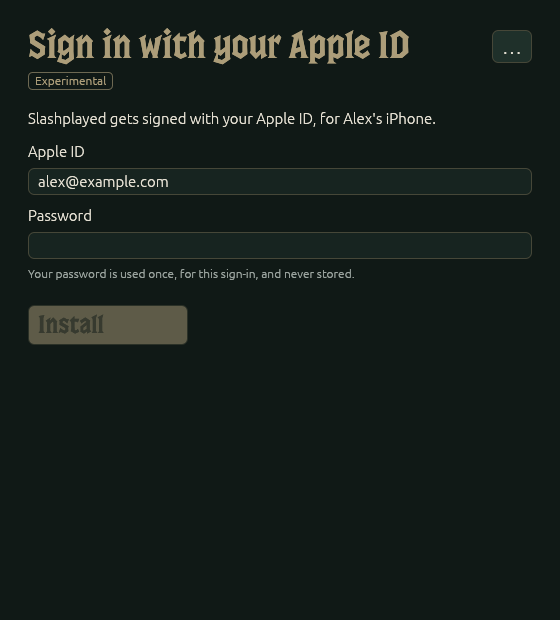
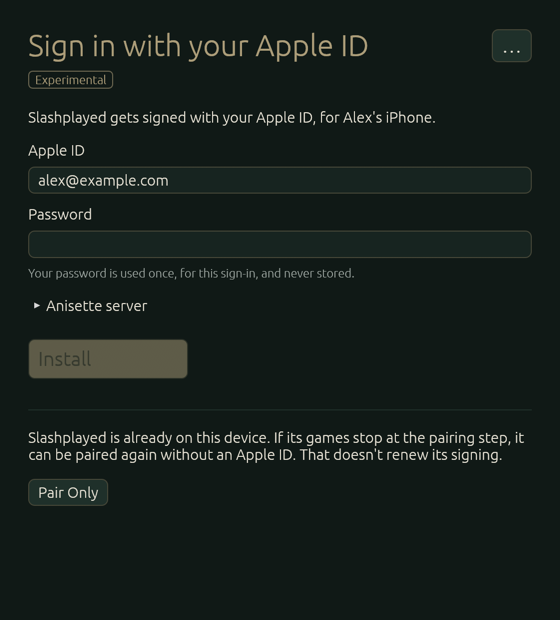
docs: show Pair Only and the anisette field at the sign-in
The window's sign-in screenshot predated the Anisette server field and
the Pair Only button this PR adds, so the guide showed a screen people
no longer see. It's redrawn from the sign-in-installed drill, and its
alt text names both.

Checked: drill rendered with SP_GUI_SHOT on macOS and looked at;
check-tree.

Amp-Thread-ID: https://ampcode.com/threads/T-01a22129-3544-76b9-a0f0-ff9fcad85390

diff --git a/docs/setup-without-a-mac.md b/docs/setup-without-a-mac.md
@@ -88,7 +88,7 @@ The companion waits for the device as long as it needs, and goes on by itself:
 Type your Apple ID and its password, then **Install**. The password is used once, for this sign-in, and
 never stored.
 
-![Sign in with your Apple ID: the Apple ID and Password fields, and an Install button](images/companion-sign-in.png)
+![Sign in with your Apple ID: the Apple ID and Password fields, the folded Anisette server field, an Install button, and, since Slashplayed is already on the device, a Pair Only button](images/companion-sign-in.png)
 
 **Anisette server**, under the password, names the server the sign-in gets its anisette data from (Apple
 asks for it). Leave it as it is unless the sign-in fails there. The window keeps what you type until it
